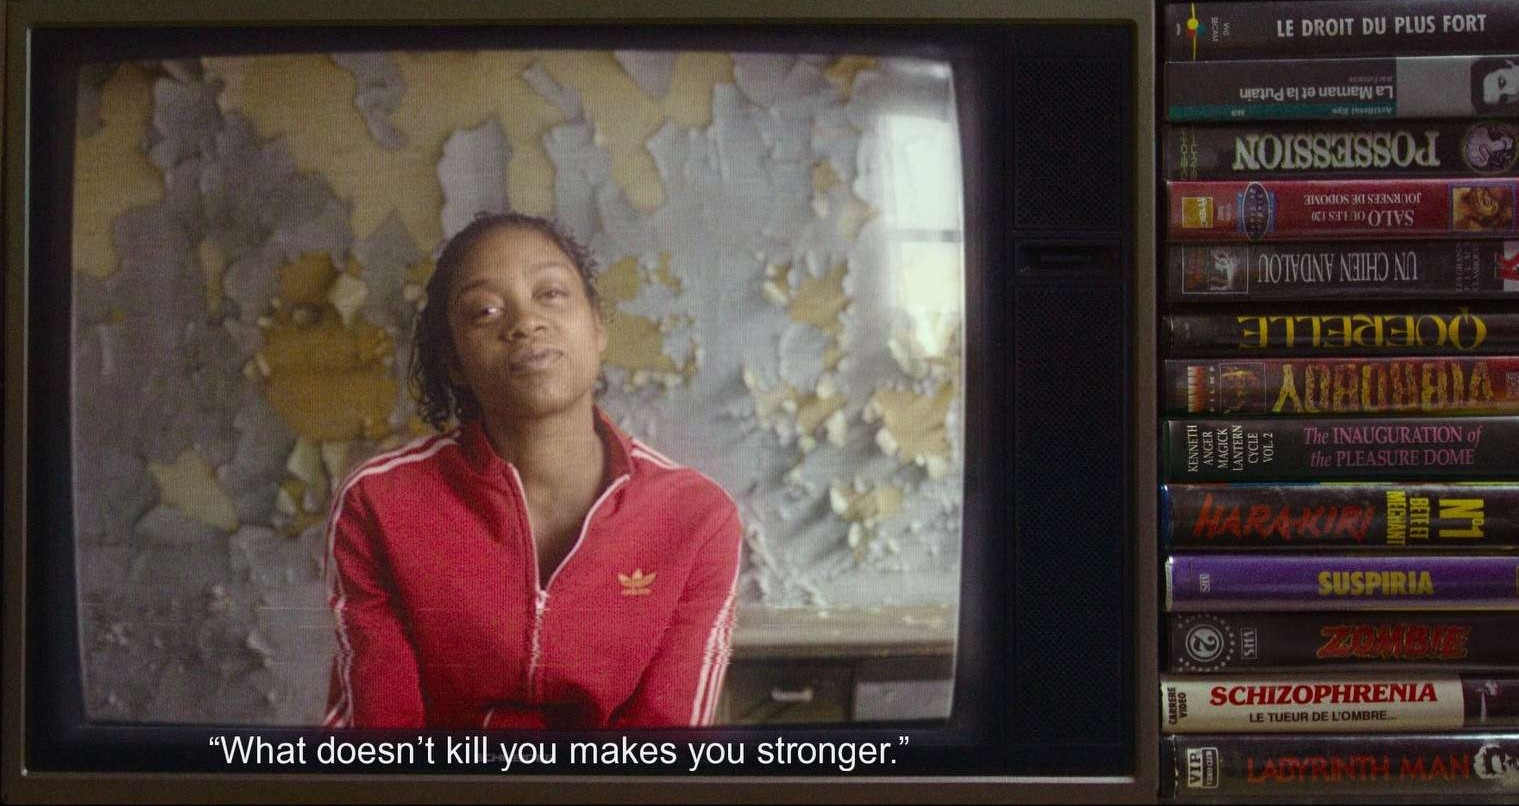
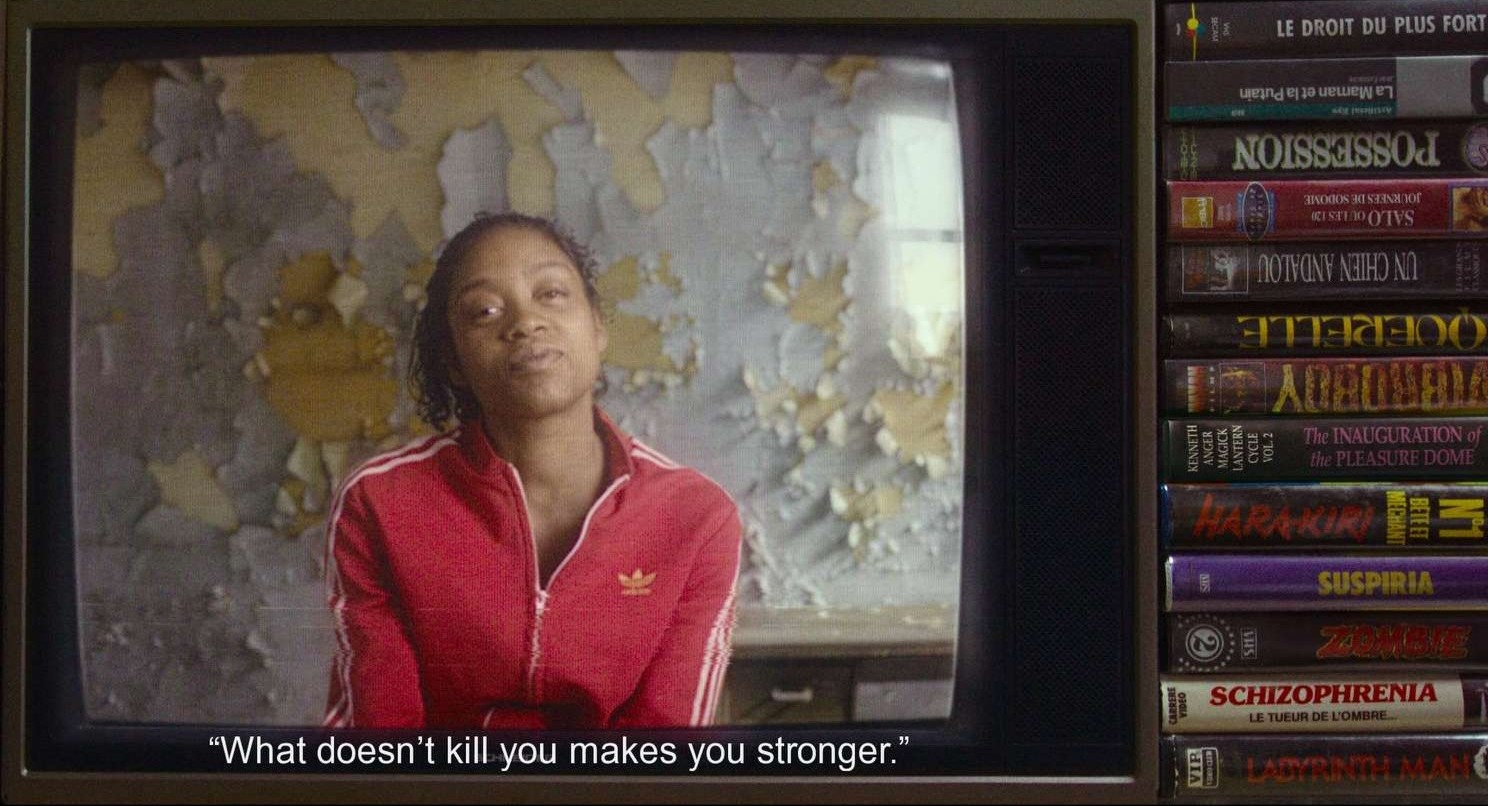
refactor: Actualizada imagen de Climax para que tenga la misma proporción que las otras cards. Agregado aspect-radio a la img a CardMovie

diff --git a/app/components/CardMovie.vue b/app/components/CardMovie.vue
@@ -7,7 +7,7 @@ const props = defineProps<{ movie: Movie }>();
 
 <template>
   <div class="col-span-12 lg:col-span-6 2xl:col-span-4 relative">
-    <img :src="props.movie.img_card" :alt="props.movie.img_card_alt" />
+    <img :src="props.movie.img_card" :alt="props.movie.img_card_alt" class="aspect-3/2" />
     <div class="bg-black text-white py-2 px-4">
       <CardHeading>
         <NuxtLink :to="`peliculas/${props.movie.link_page}`" class="after:absolute after:inset-0">
